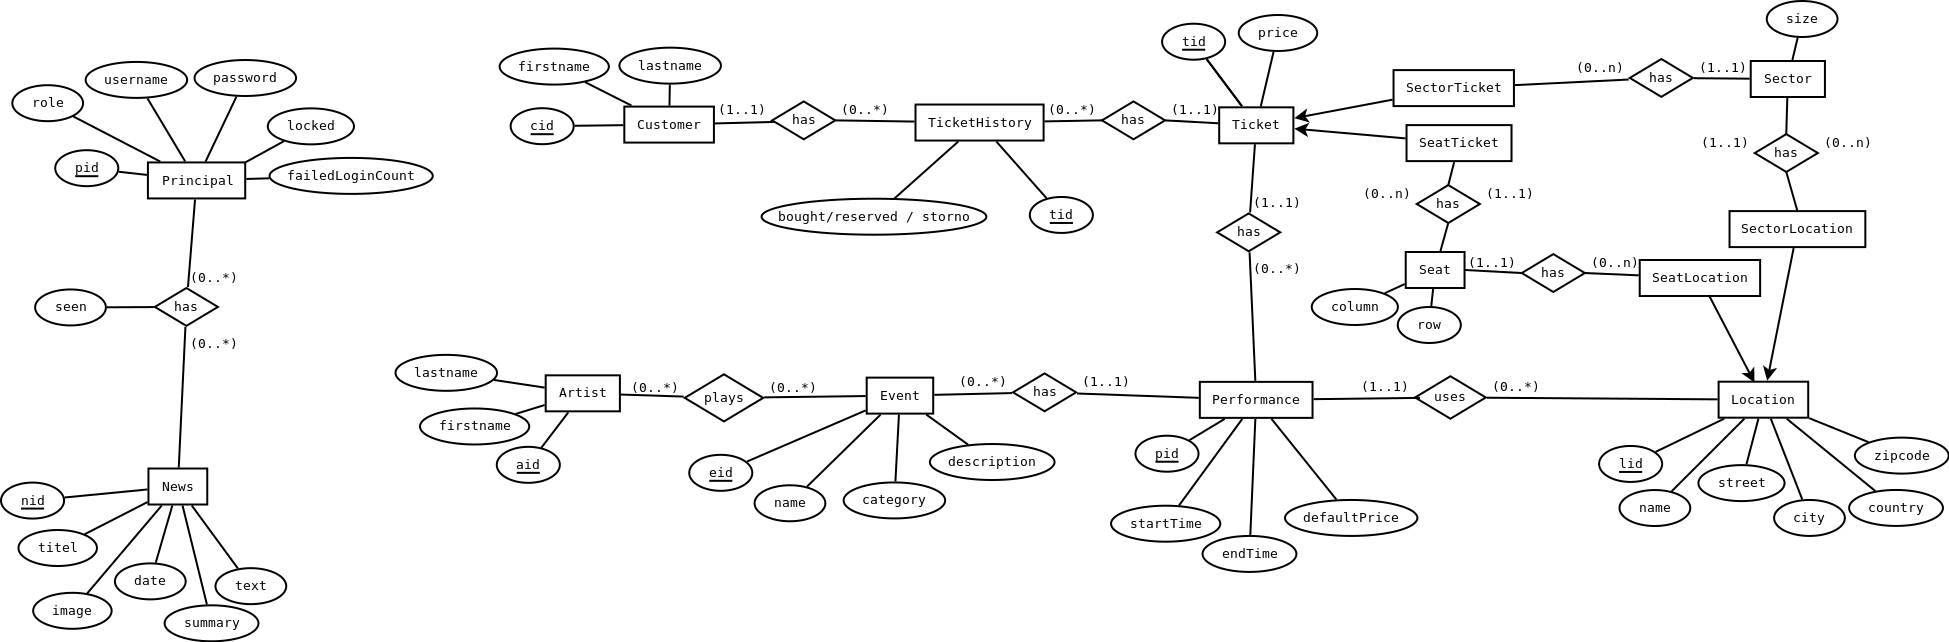
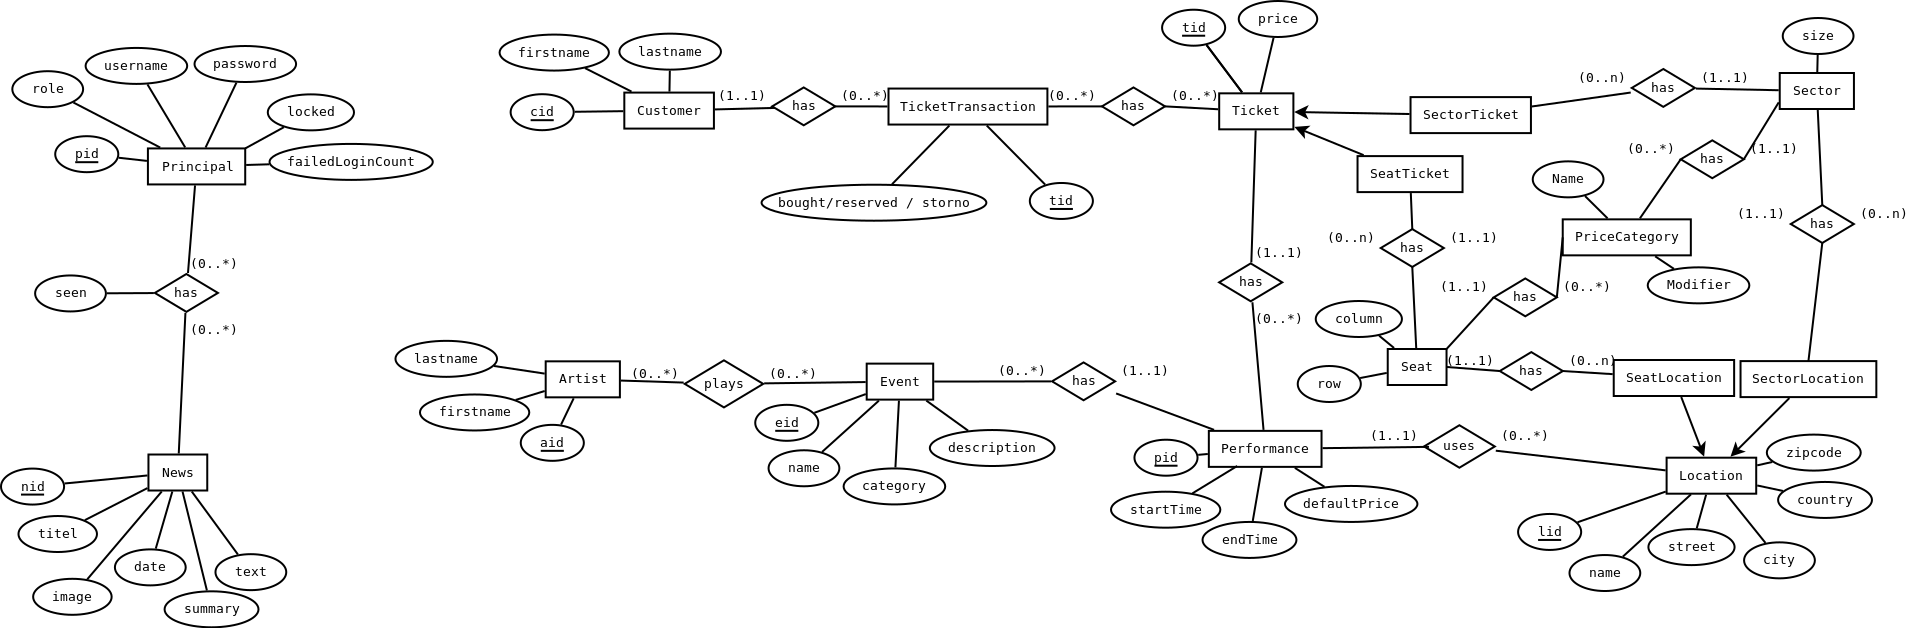
fix(entity): ticket transactions can hold more than 1 ticket

diff --git a/server/src/main/java/at/ac/tuwien/inso/sepm/ticketline/server/datagenerator/TicketHistoryDataGenerator.java b/server/src/main/java/at/ac/tuwien/inso/sepm/ticketline/server/datagenerator/TicketHistoryDataGenerator.java
@@ -3,9 +3,11 @@ package at.ac.tuwien.inso.sepm.ticketline.server.datagenerator;
 import at.ac.tuwien.inso.sepm.ticketline.server.entity.Customer;
 import at.ac.tuwien.inso.sepm.ticketline.server.entity.Ticket;
 import at.ac.tuwien.inso.sepm.ticketline.server.entity.TicketHistory;
+import at.ac.tuwien.inso.sepm.ticketline.server.entity.TicketTransaction;
 import at.ac.tuwien.inso.sepm.ticketline.server.repository.CustomerRepository;
 import at.ac.tuwien.inso.sepm.ticketline.server.repository.TicketHistoryRepository;
 import at.ac.tuwien.inso.sepm.ticketline.server.repository.TicketRepository;
+import at.ac.tuwien.inso.sepm.ticketline.server.repository.TicketTransactionRepository;
 import lombok.extern.slf4j.Slf4j;
 import org.springframework.beans.factory.annotation.Autowired;
 import org.springframework.context.annotation.Profile;
@@ -19,6 +21,9 @@ import java.util.List;
 @Profile("generateData")
 @Component
 public class TicketHistoryDataGenerator {
+
+    @Autowired
+    private TicketTransactionRepository ticketTransactionRepository;
 
     @Autowired
     private TicketHistoryRepository ticketHistoryRepository;
@@ -84,79 +89,125 @@ public class TicketHistoryDataGenerator {
     }
 
     private void reserveTickets(List<Ticket> tickets, List<Customer> customers) {
+        int randomTicketCount = (int) (Math.random() * 5 + 1);
+        List<Ticket> tmpTicketList = new ArrayList<>();
+
         for (Ticket ticket : tickets) {
-            int randomCustomerIndex = (int) (Math.random() * customers.size());
-            createTicket(
-                ticket,
-                customers.get(randomCustomerIndex),
-                TicketHistory.Status.RESERVED
-            );
+            tmpTicketList.add(ticket);
+
+            if (tmpTicketList.size() == randomTicketCount) {
+                int randomCustomerIndex = (int) (Math.random() * customers.size());
+                createTicketTransaction(
+                    tmpTicketList,
+                    customers.get(randomCustomerIndex),
+                    TicketTransaction.Status.RESERVED
+                );
+
+                randomTicketCount = (int) (Math.random() * 5 + 1);
+                tmpTicketList = new ArrayList<>();
+            }
         }
     }
 
     private void reserveAndBuyTickets(List<Ticket> tickets, List<Customer> customers) {
-        for (Ticket ticket : tickets) {
-            int randomCustomerIndex = (int) (Math.random() * customers.size());
-            createTicket(
-                ticket,
-                customers.get(randomCustomerIndex),
-                TicketHistory.Status.RESERVED
-            );
-            createTicket(
-                ticket,
-                customers.get(randomCustomerIndex),
-                TicketHistory.Status.BOUGHT
-            );
+        int randomTicketCount = (int) (Math.random() * 5 + 1);
+        List<Ticket> tmpTicketList = new ArrayList<>();
 
+        for (Ticket ticket : tickets) {
+            tmpTicketList.add(ticket);
+
+            if (tmpTicketList.size() == randomTicketCount) {
+                int randomCustomerIndex = (int) (Math.random() * customers.size());
+                createTicketTransaction(
+                    tmpTicketList,
+                    customers.get(randomCustomerIndex),
+                    TicketTransaction.Status.RESERVED
+                );
+                createTicketTransaction(
+                    tmpTicketList,
+                    customers.get(randomCustomerIndex),
+                    TicketTransaction.Status.BOUGHT
+                );
+
+                randomTicketCount = (int) (Math.random() * 5 + 1);
+                tmpTicketList = new ArrayList<>();
+            }
         }
     }
 
     private void buyAndStornoTickets(List<Ticket> tickets, List<Customer> customers) {
+        int randomTicketCount = (int) (Math.random() * 5 + 1);
+        List<Ticket> tmpTicketList = new ArrayList<>();
+
         for (Ticket ticket : tickets) {
-            int randomCustomerIndex = (int) (Math.random() * customers.size());
-            createTicket(
-                ticket,
-                customers.get(randomCustomerIndex),
-                TicketHistory.Status.BOUGHT
-            );
-            createTicket(
-                ticket,
-                customers.get(randomCustomerIndex),
-                TicketHistory.Status.STORNO
-            );
+            tmpTicketList.add(ticket);
+
+            if (tmpTicketList.size() == randomTicketCount) {
+                int randomCustomerIndex = (int) (Math.random() * customers.size());
+                createTicketTransaction(
+                    tmpTicketList,
+                    customers.get(randomCustomerIndex),
+                    TicketTransaction.Status.BOUGHT
+                );
+                createTicketTransaction(
+                    tmpTicketList,
+                    customers.get(randomCustomerIndex),
+                    TicketTransaction.Status.STORNO
+                );
+
+                randomTicketCount = (int) (Math.random() * 5 + 1);
+                tmpTicketList = new ArrayList<>();
+            }
         }
     }
 
     private void buyStornoAndReserveTickets(List<Ticket> tickets, List<Customer> customers) {
+        int randomTicketCount = (int) (Math.random() * 5 + 1);
+        List<Ticket> tmpTicketList = new ArrayList<>();
+
         for (Ticket ticket : tickets) {
-            int randomCustomerIndex = (int) (Math.random() * customers.size());
-            createTicket(
-                ticket,
-                customers.get(randomCustomerIndex),
-                TicketHistory.Status.BOUGHT
-            );
-            createTicket(
-                ticket,
-                customers.get(randomCustomerIndex),
-                TicketHistory.Status.STORNO
-            );
-            // set new customer (or randomly the same person)
-            randomCustomerIndex = (int) (Math.random() * customers.size());
-            createTicket(
-                ticket,
-                customers.get(randomCustomerIndex),
-                TicketHistory.Status.RESERVED
-            );
+            tmpTicketList.add(ticket);
+
+            if (tmpTicketList.size() == randomTicketCount) {
+                int randomCustomerIndex = (int) (Math.random() * customers.size());
+                createTicketTransaction(
+                    tmpTicketList,
+                    customers.get(randomCustomerIndex),
+                    TicketTransaction.Status.BOUGHT
+                );
+                createTicketTransaction(
+                    tmpTicketList,
+                    customers.get(randomCustomerIndex),
+                    TicketTransaction.Status.STORNO
+                );
+                // set new customer (or randomly the same person)
+                randomCustomerIndex = (int) (Math.random() * customers.size());
+                createTicketTransaction(
+                    tmpTicketList,
+                    customers.get(randomCustomerIndex),
+                    TicketTransaction.Status.RESERVED
+                );
+
+                randomTicketCount = (int) (Math.random() * 5 + 1);
+                tmpTicketList = new ArrayList<>();
+            }
         }
     }
 
-    private void createTicket(Ticket ticket, Customer customer, TicketHistory.Status status) {
-        TicketHistory ticketHistory = TicketHistory.builder()
-            .ticket(ticket)
+    private void createTicketTransaction(List<Ticket> ticketList, Customer customer, TicketTransaction.Status status) {
+        TicketTransaction ticketTransaction = TicketTransaction.builder()
             .customer(customer)
             .status(status)
             .build();
-        ticketHistoryRepository.save(ticketHistory);
+        ticketTransactionRepository.save(ticketTransaction);
+        for (Ticket ticket : ticketList) {
+            TicketHistory ticketHistory = TicketHistory.builder()
+                .ticket(ticket)
+                .ticketTransaction(ticketTransaction)
+                .build();
+            ticketHistoryRepository.save(ticketHistory);
+        }
+
     }
 
 }

diff --git a/server/src/main/java/at/ac/tuwien/inso/sepm/ticketline/server/entity/TicketTransaction.java b/server/src/main/java/at/ac/tuwien/inso/sepm/ticketline/server/entity/TicketTransaction.java
@@ -1,0 +1,48 @@
+package at.ac.tuwien.inso.sepm.ticketline.server.entity;
+
+import at.ac.tuwien.inso.sepm.ticketline.server.entity.base.Audited;
+import lombok.*;
+
+import javax.persistence.*;
+import javax.validation.constraints.NotNull;
+import java.util.Set;
+import java.util.UUID;
+
+@Setter
+@Getter
+@NoArgsConstructor
+@AllArgsConstructor
+@Builder
+@ToString(exclude = {"ticketHistories"})
+@Entity
+public class TicketTransaction extends Audited {
+
+    public enum Status {
+        RESERVED,
+        STORNO,
+        BOUGHT
+    }
+
+    @Getter
+    @Id
+    @GeneratedValue
+    @Column(columnDefinition = "uuid", updatable = false)
+    private UUID id;
+
+    @Column(updatable = false)
+    @NotNull
+    @Enumerated(value = EnumType.STRING)
+    private Status status = Status.RESERVED;
+
+    @Getter
+    @OneToMany(mappedBy = "ticketTransaction")
+    private Set<TicketHistory> ticketHistories;
+
+    @NotNull
+    @ManyToOne
+    @JoinColumn(
+        foreignKey = @ForeignKey(name = "fk_tickethistory_customer")
+    )
+    private Customer customer;
+
+}

diff --git a/server/src/main/java/at/ac/tuwien/inso/sepm/ticketline/server/entity/TicketHistory.java b/server/src/main/java/at/ac/tuwien/inso/sepm/ticketline/server/entity/TicketHistory.java
@@ -16,22 +16,11 @@ import java.util.UUID;
 @Entity
 public class TicketHistory extends Audited {
 
-    public enum Status {
-        RESERVED,
-        STORNO,
-        BOUGHT
-    }
-
     @Getter
     @Id
     @GeneratedValue
     @Column(columnDefinition = "uuid", updatable = false)
     private UUID id;
-
-    @Column(updatable = false)
-    @NotNull
-    @Enumerated(value = EnumType.STRING)
-    private Status status = Status.RESERVED;
 
     @NotNull
     @ManyToOne
@@ -43,8 +32,8 @@ public class TicketHistory extends Audited {
     @NotNull
     @ManyToOne
     @JoinColumn(
-        foreignKey = @ForeignKey(name = "fk_tickethistory_customer")
+        foreignKey = @ForeignKey(name = "fk_tickettransaction_tickethistory")
     )
-    private Customer customer;
+    private TicketTransaction ticketTransaction;
 
 }

diff --git a/server/src/main/java/at/ac/tuwien/inso/sepm/ticketline/server/entity/Customer.java b/server/src/main/java/at/ac/tuwien/inso/sepm/ticketline/server/entity/Customer.java
@@ -12,7 +12,7 @@ import java.util.UUID;
 @NoArgsConstructor
 @AllArgsConstructor
 @Builder
-@ToString(exclude = {"ticketHistories"})
+@ToString(exclude = {"ticketTransactions"})
 @Entity
 public class Customer extends Audited {
 
@@ -27,5 +27,5 @@ public class Customer extends Audited {
 
     @Getter
     @OneToMany(mappedBy = "customer")
-    private Set<TicketHistory> ticketHistories;
+    private Set<TicketTransaction> ticketTransactions;
 }

diff --git a/server/src/main/java/at/ac/tuwien/inso/sepm/ticketline/server/entity/SectorTicket.java b/server/src/main/java/at/ac/tuwien/inso/sepm/ticketline/server/entity/SectorTicket.java
@@ -26,10 +26,10 @@ public class SectorTicket extends Ticket {
         UUID id,
         BigDecimal price,
         Performance performance,
-        Set<TicketHistory> ticketHistorySet,
+        Set<TicketHistory> ticketHistories,
         Sector sector
     ) {
-        super(id, price, performance, ticketHistorySet);
+        super(id, price, performance, ticketHistories);
         this.sector = sector;
     }
 

diff --git a/server/src/main/java/at/ac/tuwien/inso/sepm/ticketline/server/entity/SeatTicket.java b/server/src/main/java/at/ac/tuwien/inso/sepm/ticketline/server/entity/SeatTicket.java
@@ -26,10 +26,10 @@ public class SeatTicket extends Ticket {
         UUID id,
         BigDecimal price,
         Performance performance,
-        Set<TicketHistory> ticketHistorySet,
+        Set<TicketHistory> ticketHistories,
         Seat seat
     ) {
-        super(id, price, performance, ticketHistorySet);
+        super(id, price, performance, ticketHistories);
         this.seat = seat;
     }
 

diff --git a/server/src/main/java/at/ac/tuwien/inso/sepm/ticketline/server/repository/TicketTransactionRepository.java b/server/src/main/java/at/ac/tuwien/inso/sepm/ticketline/server/repository/TicketTransactionRepository.java
@@ -1,0 +1,11 @@
+package at.ac.tuwien.inso.sepm.ticketline.server.repository;
+
+import at.ac.tuwien.inso.sepm.ticketline.server.entity.TicketTransaction;
+import org.springframework.data.jpa.repository.JpaRepository;
+import org.springframework.stereotype.Repository;
+
+import java.util.UUID;
+
+@Repository
+public interface TicketTransactionRepository extends JpaRepository<TicketTransaction, UUID> {
+}
